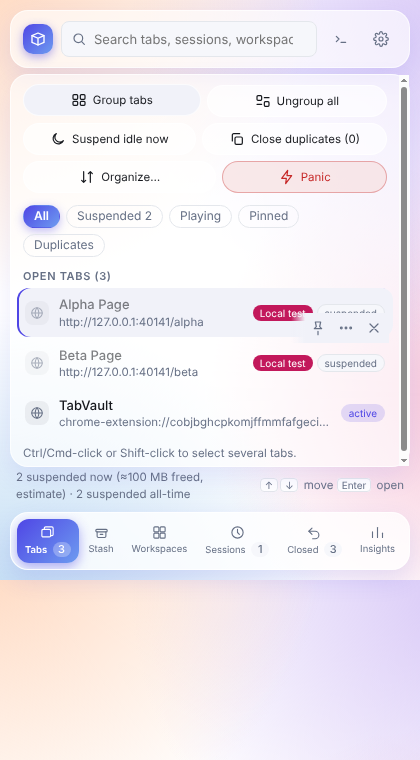
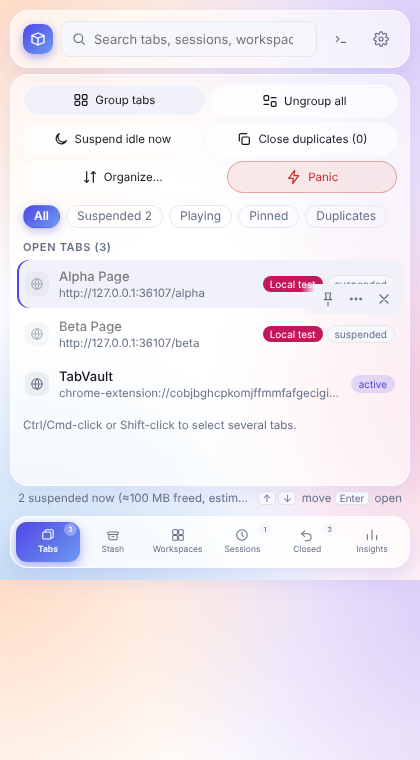
Fix popup nav overflow and footer spacing
Shrink the view-switcher tabs to fit one row without horizontal
scroll (corner badge counts instead of inline, ellipsis fallback),
widen the gap above the bottom nav so the stats line no longer
crowds it, and give the scrollable list a thin accent-colored
scrollbar instead of the browser default.

diff --git a/src/entrypoints/popup/style.css b/src/entrypoints/popup/style.css
@@ -84,7 +84,7 @@ button.primary:hover { filter: brightness(1.06); box-shadow: 0 6px 18px color-mi
 button.danger:hover { border-color: var(--danger); color: var(--danger); }
 
 nav {
-  order: 4; display: flex; margin: 6px 10px 10px; padding: 6px; gap: 2px; overflow-x: auto; scrollbar-width: none;
+  order: 4; display: flex; margin: 8px 10px 12px; padding: 5px; gap: 1px; overflow-x: auto; scrollbar-width: none;
   background: var(--glass-strong); backdrop-filter: blur(20px) saturate(1.4); -webkit-backdrop-filter: blur(20px) saturate(1.4);
   border: 1px solid var(--glass-border); border-radius: var(--radius-lg);
   box-shadow: 0 10px 24px color-mix(in srgb, var(--accent) 14%, transparent);
@@ -92,10 +92,11 @@ nav {
 }
 nav::-webkit-scrollbar { display: none; }
 nav button {
-  flex: 1 0 auto; display: flex; flex-direction: column; align-items: center; gap: 2px; white-space: nowrap;
-  border: 0; border-radius: 12px; color: var(--muted); padding: 6px 7px; background: none; font-size: 9.5px;
+  position: relative; flex: 1 1 0; min-width: 0; display: flex; flex-direction: column; align-items: center; justify-content: center;
+  gap: 2px; border: 0; border-radius: 11px; color: var(--muted); padding: 6px 2px; background: none; font-size: 8.5px;
 }
-nav button svg { width: 15px; height: 15px; }
+nav button svg { width: 14px; height: 14px; }
+nav button span { max-width: 100%; overflow: hidden; text-overflow: ellipsis; white-space: nowrap; }
 nav button:hover { color: var(--fg); background: var(--hover); transform: none; }
 nav button[aria-selected='true'] {
   color: var(--accent-fg); background: linear-gradient(135deg, var(--accent), var(--accent-2));
@@ -103,16 +104,24 @@ nav button[aria-selected='true'] {
 }
 nav button[aria-selected='true']:hover { color: var(--accent-fg); background: linear-gradient(135deg, var(--accent), var(--accent-2)); }
 .count { display: inline-block; min-width: 18px; padding: 0 5px; margin-left: 3px; border-radius: 9px; background: var(--surface); color: var(--muted); font-size: 11px; font-weight: 500; text-align: center; transition: background .15s, color .15s; }
-nav button[aria-selected='true'] .count { background: rgba(255, 255, 255, .28); color: inherit; }
 .count:empty { display: none; }
+nav .count {
+  position: absolute; top: 1px; right: 3px; margin-left: 0; min-width: 13px; height: 13px; line-height: 13px; padding: 0 2px; font-size: 7px;
+}
+nav button[aria-selected='true'] .count { background: rgba(255, 255, 255, .3); color: inherit; }
 
 main {
-  order: 1; flex: 1; overflow-y: auto; margin: 0 10px; padding-bottom: 8px; scrollbar-width: thin;
+  order: 1; flex: 1; overflow-y: auto; margin: 0 10px; padding-bottom: 8px;
+  scrollbar-width: thin; scrollbar-color: color-mix(in srgb, var(--accent) 55%, transparent) transparent;
   background: var(--glass); backdrop-filter: blur(18px) saturate(1.3); -webkit-backdrop-filter: blur(18px) saturate(1.3);
   border: 1px solid var(--glass-border); border-radius: var(--radius-lg);
   box-shadow: 0 10px 26px color-mix(in srgb, var(--accent) 10%, transparent);
   animation: rise .26s var(--ease) both;
 }
+main::-webkit-scrollbar { width: 7px; }
+main::-webkit-scrollbar-track { background: transparent; }
+main::-webkit-scrollbar-thumb { background: color-mix(in srgb, var(--accent) 55%, transparent); border-radius: 999px; }
+main::-webkit-scrollbar-thumb:hover { background: color-mix(in srgb, var(--accent) 75%, transparent); }
 .toolbar { display: flex; flex-wrap: wrap; gap: 6px; padding: 10px 12px 4px; }
 .toolbar button {
   display: flex; align-items: center; justify-content: center; gap: 6px; flex: 1 1 auto; padding: 7px 12px; white-space: nowrap;
@@ -178,8 +187,8 @@ li:hover .actions, li:focus-within .actions, li[aria-selected='true'] .actions {
 }
 #toast:empty { display: none; animation: none; }
 
-footer { order: 3; display: flex; align-items: center; justify-content: space-between; gap: 8px; padding: 2px 16px 4px; color: var(--muted); font-size: 11.5px; }
-#stats { min-width: 0; }
+footer { order: 3; display: flex; align-items: center; justify-content: space-between; gap: 8px; padding: 4px 18px 2px; color: var(--muted); font-size: 11.5px; }
+#stats { min-width: 0; overflow: hidden; text-overflow: ellipsis; white-space: nowrap; }
 .hint { flex: none; white-space: nowrap; }
 kbd { font: inherit; font-size: 10px; padding: 0 4px; margin-right: 2px; border: 1px solid var(--line); border-radius: 4px; background: var(--bg); }
 
